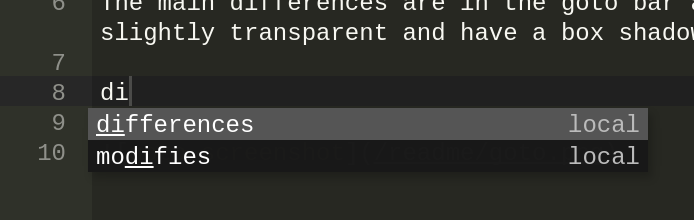
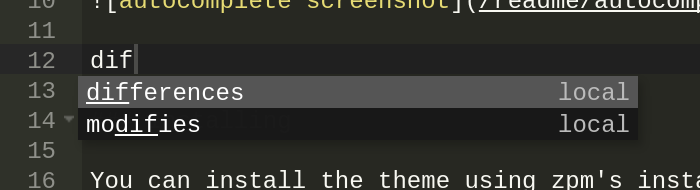
updated the box shadows.  Also updated the readme

diff --git a/transparent-dark.css b/transparent-dark.css
@@ -21,7 +21,7 @@ body.dark #goto {
     border-right: 0;
     border-left: 0;
     border-bottom: 0;
-    box-shadow: 2px 2px 5px rgba(0, 0, 0, 0.9);
+    box-shadow: 2px 2px 5px rgba(25, 25, 25, 0.9);
 }
 
 #gotohint {
@@ -40,6 +40,7 @@ body.dark .ace_autocomplete {
     border-right: 0;
     border-left: 0;
     border-bottom: 0;
+    box-shadow: 2px 2px 5px rgba(25, 25, 25, 0.9);
 }
 
 body ::-webkit-scrollbar {
